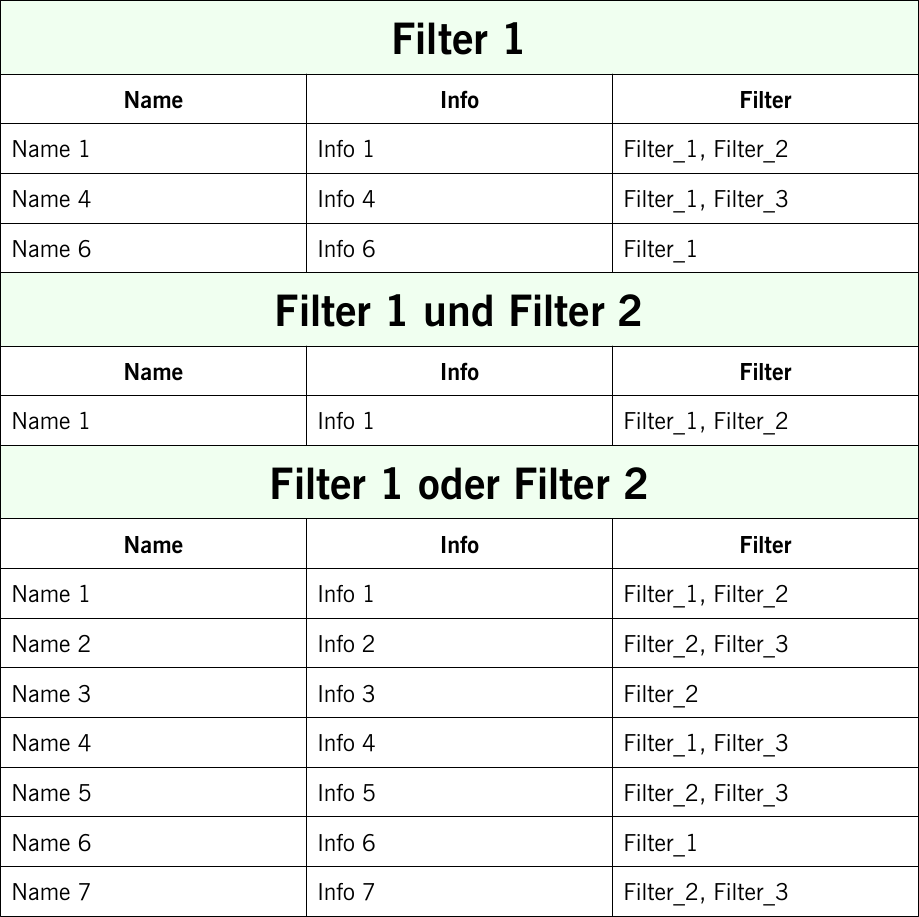
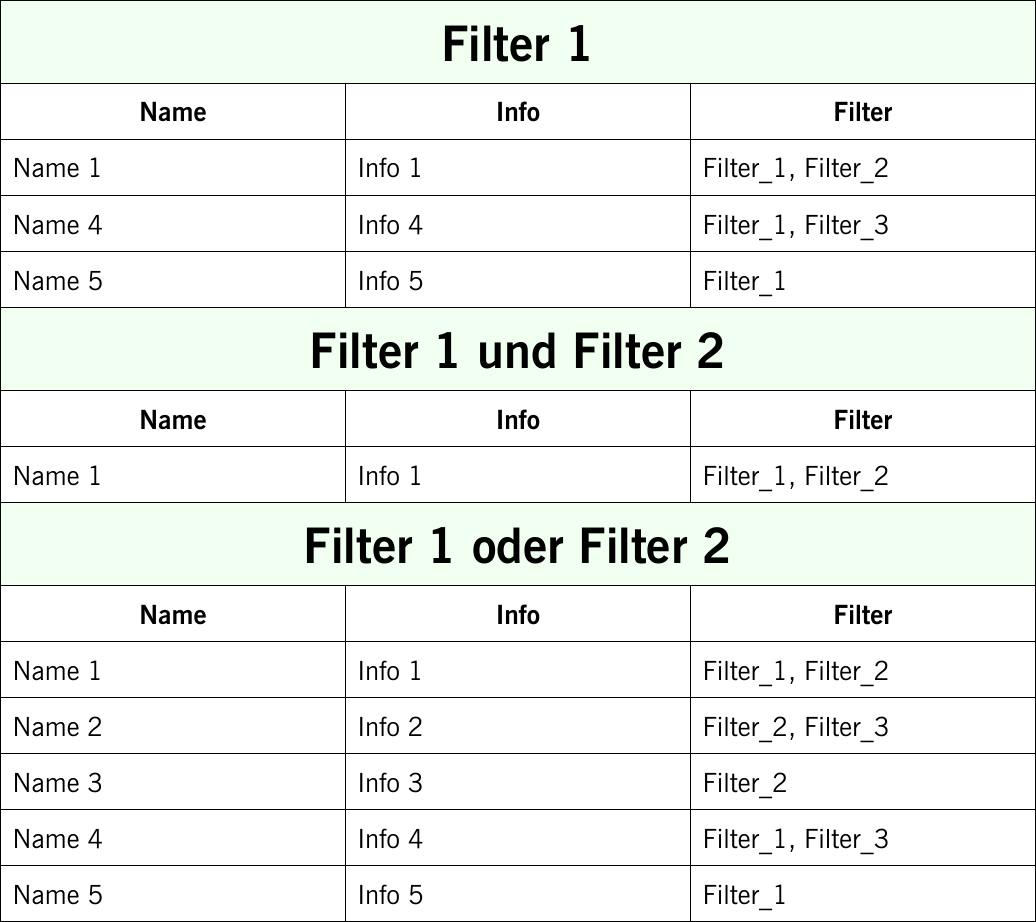
wip(template): transfer actual template into README

diff --git a/input/properties_template.py b/input/properties_template.py
@@ -3,7 +3,7 @@
 from typing import List, NamedTuple, Tuple
 
 #: the page size of the generated Pdf.
-pagesize = (90.1, 94)
+pagesize = (90.1, 84.3)
 
 
 #: The XML tag, which will be represented by one row in the table.

diff --git a/README.md b/README.md
@@ -83,18 +83,27 @@ Imagine you have an XML file with similar groups of tags and subtags.
     <row_tag>
         <name_tag>Name 1</name_tag>
         <info_tag>Info 1</info_tag>
-        <filter_tag>Filter_1-1 Filter_1-2</filter_tag>
+        <filter_tag>Filter_1, Filter_2</filter_tag>
     </row_tag>
     <row_tag>
         <name_tag>Name 2</name_tag>
         <info_tag>Info 2</info_tag>
-        <filter_tag>Filter_2-1 Filter_2-2 Filter_2-3</filter_tag>
+        <filter_tag>Filter_2, Filter_3</filter_tag>
     </row_tag>
-    [...]
     <row_tag>
-        <name_tag>Name n</name_tag>
-        <info_tag>Info n</info_tag>
-        <filter_tag>Filter_n-1</filter_tag>
+        <name_tag>Name 3</name_tag>
+        <info_tag>Info 3</info_tag>
+        <filter_tag>Filter_2</filter_tag>
+    </row_tag>
+    <row_tag>
+        <name_tag>Name 4</name_tag>
+        <info_tag>Info 4</info_tag>
+        <filter_tag>Filter_1, Filter_3</filter_tag>
+    </row_tag>
+    <row_tag>
+        <name_tag>Name 5</name_tag>
+        <info_tag>Info 5</info_tag>
+        <filter_tag>Filter_1</filter_tag>
     </row_tag>
 </main_tag>
 ```
@@ -102,7 +111,7 @@ Imagine you have an XML file with similar groups of tags and subtags.
 Now you want to visualize all `row_tag`s with their subtags `name_tag` and `info_tag`
 fed into separate columns. And lastly you want to group those `row_tags` which 
 satisfy certain filter criteria, that is their `filter_tag` contains certain
-combinations of space-separated texts. Those groups of `row_tag`s are extracted into
+combinations of comma-separated texts. Those groups of `row_tag`s are extracted into
 several subtables each with a separating heading line and the corresponding column
 headings.
 
